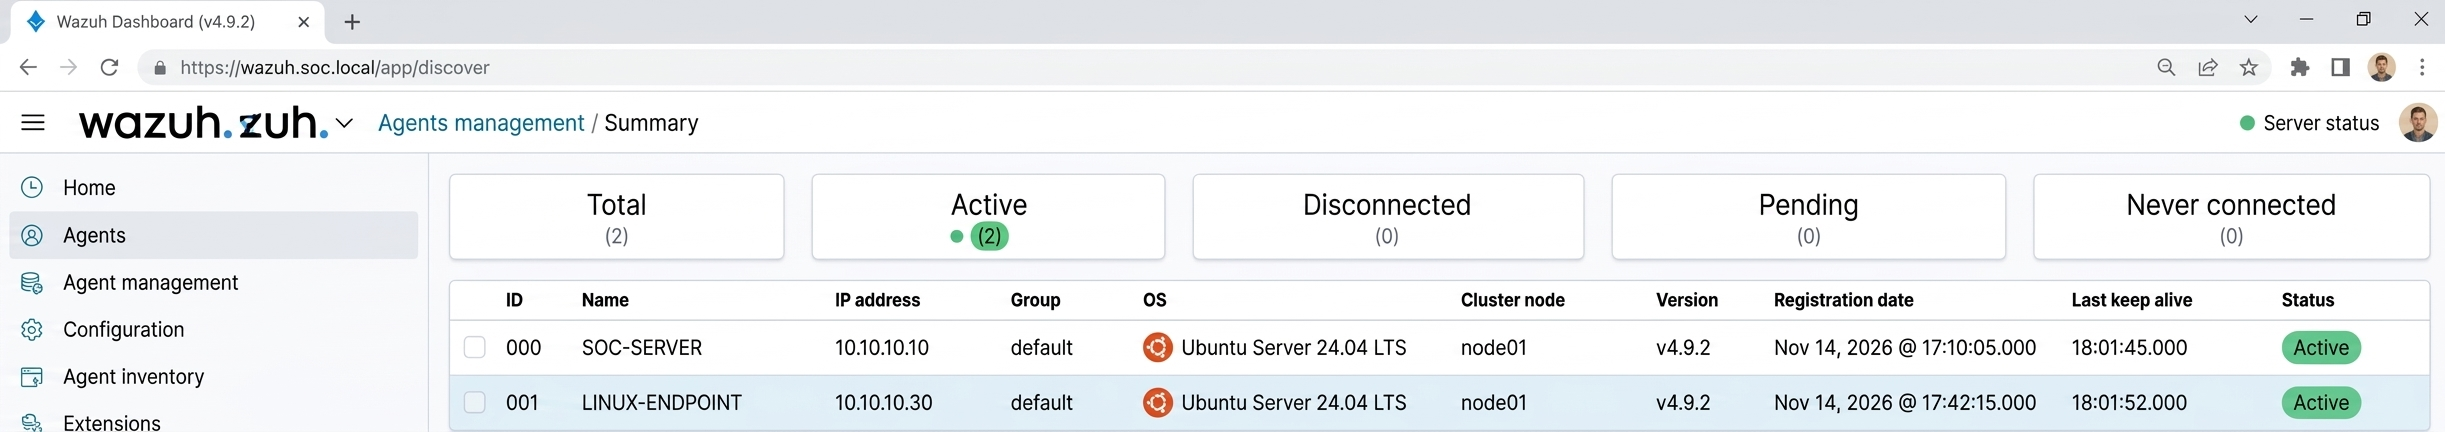
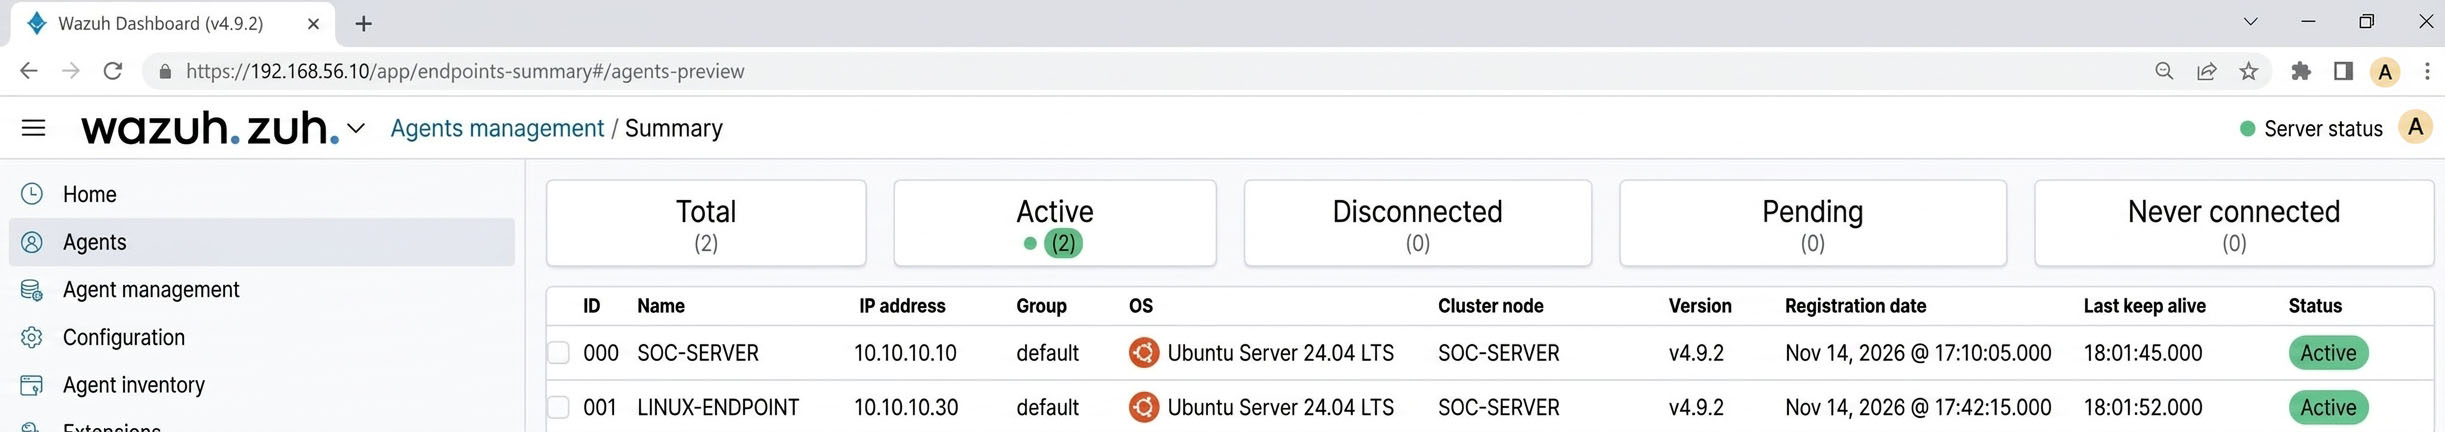
chore(03-linux-monitoring): limpa e renomeia imagens, atualiza README

diff --git a/03-Linux-Monitoring/README.md b/03-Linux-Monitoring/README.md
@@ -213,19 +213,19 @@ Visualização do agente Linux no Wazuh Dashboard.
 
 Eventos de autenticação coletados do endpoint Linux.
 
-<img width="1376" height="768" alt="Logs de autenticação Linux" src="./imagens/03-authentication-logs.png.jpg" />
+<img width="1376" height="768" alt="Logs de autenticação Linux" src="./imagens/03-authentication-logs.png" />
 
 ### 04 — Falha de Login
 
 Evidência de tentativa malsucedida de autenticação SSH.
 
-<img width="1376" height="768" alt="Falha de login SSH" src="./imagens/04-failed-login.png.jpg" />
+<img width="1376" height="768" alt="Falha de login SSH" src="./imagens/04-failed-login.jpg" />
 
 ### 05 — Gerenciamento de Usuários
 
 Evidência de atividade relacionada ao gerenciamento de usuários Linux.
 
-<img width="1376" height="768" alt="Gerenciamento de usuários Linux" src="./imagens/05-user-management.png.jpg" />
+<img width="1376" height="768" alt="Gerenciamento de usuários Linux" src="./imagens/05-user-management.png" />
 
 ### 06 — Atividade Sudo
 
@@ -237,7 +237,7 @@ Evidência de execução de comandos administrativos.
 
 Evidência de processos e serviços do endpoint Linux.
 
-<img width="1376" height="768" alt="Monitoramento de processos e serviços Linux" src="./imagens/07-system-monitoring.png.jpg" />
+<img width="1376" height="768" alt="Monitoramento de processos e serviços Linux" src="./imagens/07-system-monitoring.jpg" />
 
 ## Scripts de Apoio
 
